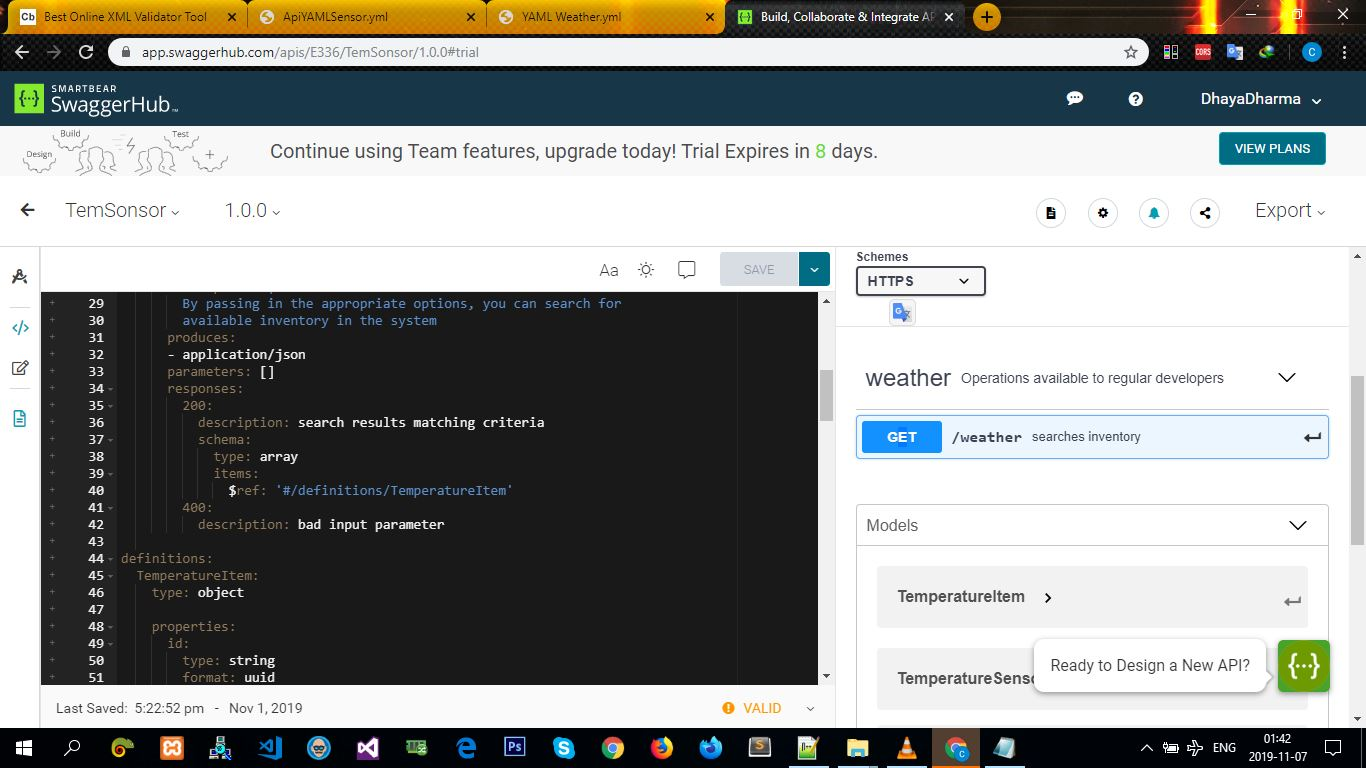
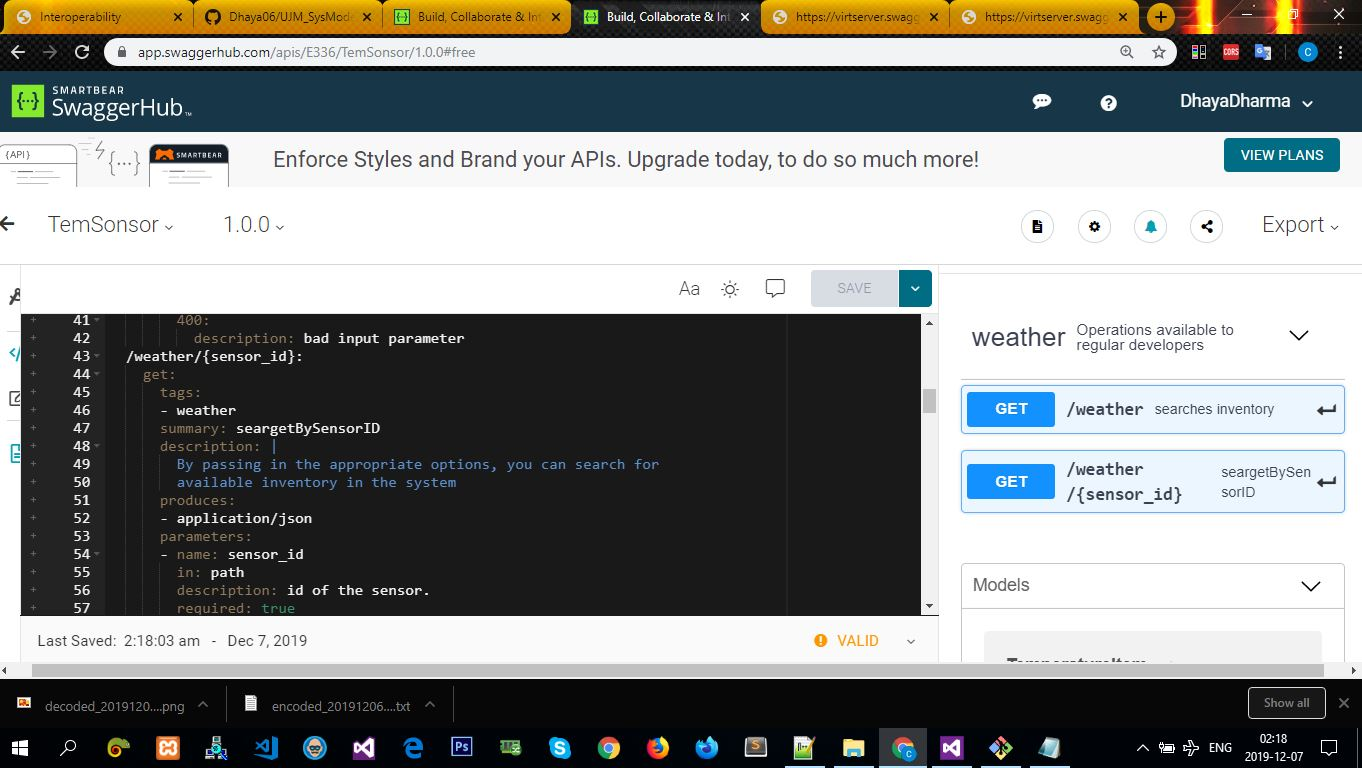
yaml edited

diff --git a/README.md b/README.md
@@ -5,6 +5,16 @@
 https://virtserver.swaggerhub.com/E336/TemSonsor/1.0.0/weather
 click this link to view the API results from Open API
 
+
+### Link to Open API 
+https://virtserver.swaggerhub.com/E336/TemSonsor/1.0.0/weather
+click this link to view the API results from Open API
+
+### Link to Open API 
+https://virtserver.swaggerhub.com/E336/TemSonsor/1.0.0/weather/12
+click this link to view the API results from Open API filter by sensor ID
+
+
 ### Screenshot folder contains screen shots of online validation and plugin
 ### Root branch contains source files 
 
